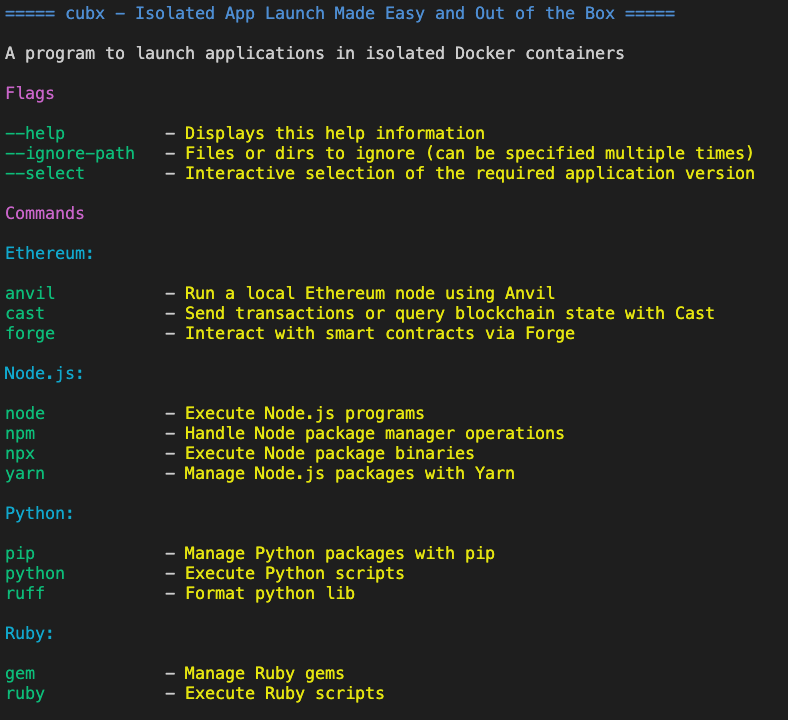
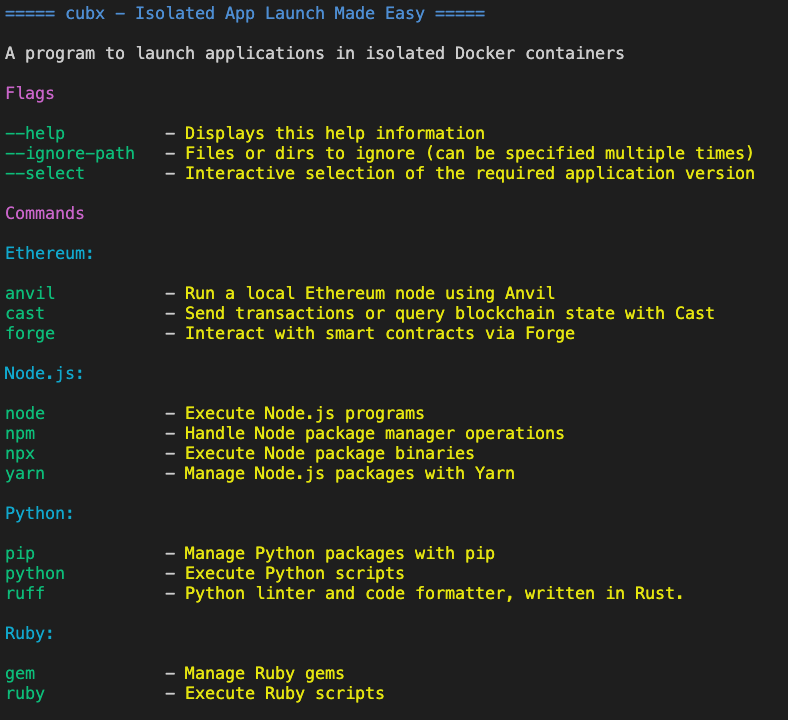
feat: update ruff description

diff --git a/internal/command/command.go b/internal/command/command.go
@@ -24,7 +24,7 @@ var CommandHandlers = []Command{
 	{Name: "cast", CommandHandler: foundryCommandHandler, Description: "Send transactions or query blockchain state with Cast", Category: "Ethereum"},
 	{Name: "anvil", CommandHandler: foundryCommandHandler, Description: "Run a local Ethereum node using Anvil", Category: "Ethereum"},
 	{Name: "python", CommandHandler: pythonCommandHandler, Description: "Execute Python scripts", Category: "Python"},
-	{Name: "ruff", CommandHandler: ruffCommandHandler, Description: "Format python lib", Category: "Python"},
+	{Name: "ruff", CommandHandler: ruffCommandHandler, Description: "Python linter and code formatter, written in Rust.", Category: "Python"},
 	{Name: "pip", CommandHandler: pythonCommandHandler, Description: "Manage Python packages with pip", Category: "Python"},
 	{Name: "ruby", CommandHandler: rubyCommandHandler, Description: "Execute Ruby scripts", Category: "Ruby"},
 	{Name: "gem", CommandHandler: rubyCommandHandler, Description: "Manage Ruby gems", Category: "Ruby"},
